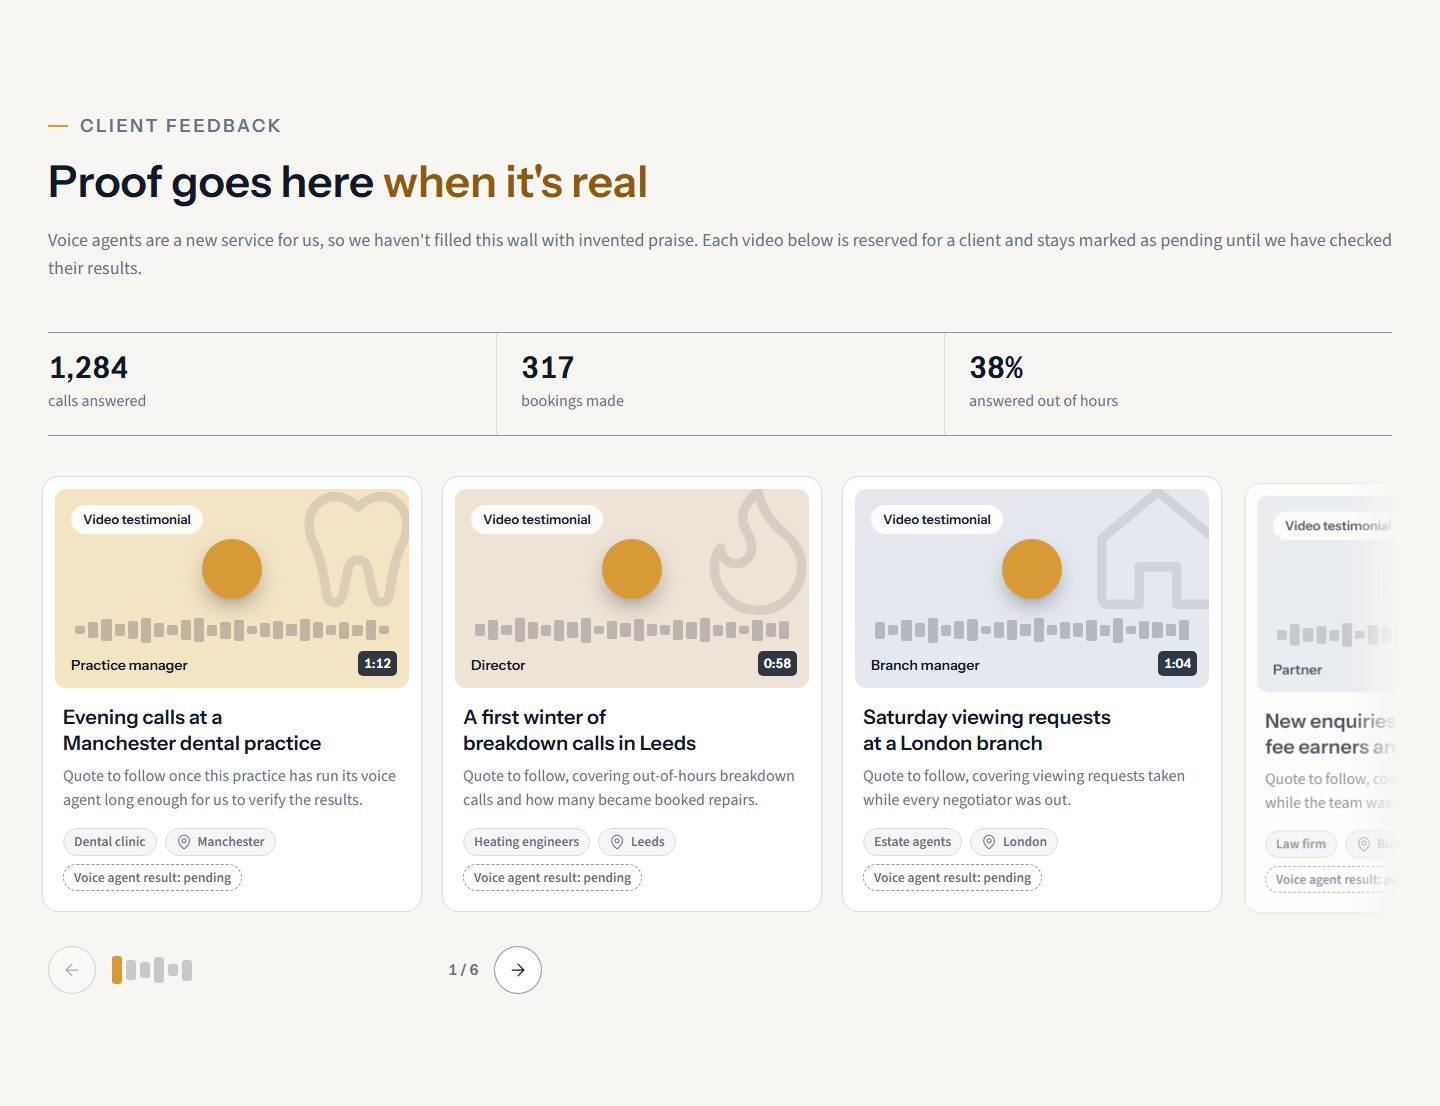
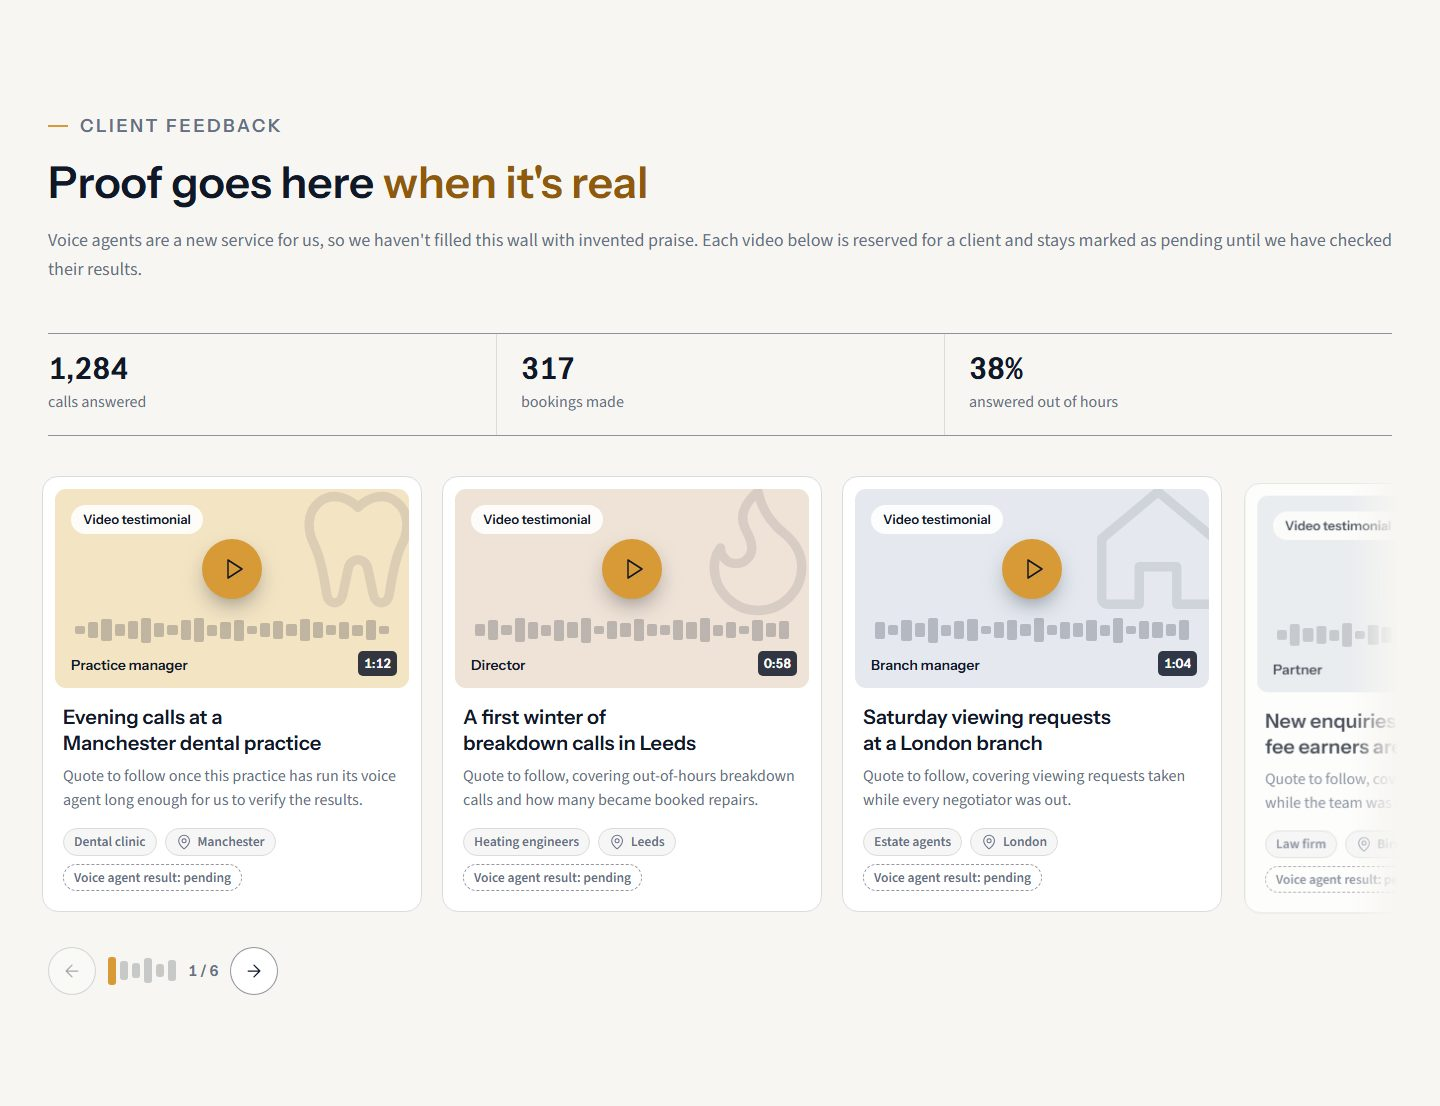
/ai-voice-agents: Industries back to a grid; feedback and cities carousels drag and autoplay
Compact control row (arrow, waveform, count, arrow). Mouse drag with snap on
release and a swallowed follow-up click. Autoplay every 4.5s while in view,
paused on hover, focus and for 8s after any interaction, off under reduced
motion. Button and wave colours now have fallbacks so they render inside the
v4 wrapper too.

diff --git a/lib/content/ai-voice-agents-legacy.ts b/lib/content/ai-voice-agents-legacy.ts
@@ -55,8 +55,7 @@ export const legacyMarkup = String.raw`
     </div>
     <p class="sr-only" aria-live="polite" data-industry-count></p>
 
-    <div class="va-car mt-8" data-carousel>
-    <div class="va-car-track" style="--car-w:560px" tabindex="0" aria-label="Industries, scroll sideways" data-industry-list>
+    <div class="mt-8 grid gap-5 lg:grid-cols-2" data-industry-list>
       <article class="grid items-start gap-4 rounded-[18px] border border-line bg-surface p-5 sm:grid-cols-[160px_minmax(0,1fr)] sm:gap-6" data-industry data-group="property">
         <span class="block h-[120px] w-full rounded-[12px] bg-paper p-2 sm:w-[160px]" aria-hidden="true"><svg viewBox="0 0 200 150" class="h-full w-full" aria-hidden="true">
     <ellipse cx="100" cy="132" rx="78" ry="14.04" class="il-shadow"/>
@@ -275,15 +274,7 @@ export const legacyMarkup = String.raw`
         </ul>
         </div>
       </article>
-    </div>
-    <div class="va-car-ui">
-      <button type="button" class="va-car-btn" data-car-prev aria-label="Previous industry"><svg class="icon" aria-hidden="true" focusable="false"><use href="#i-arrow-left"/></svg></button>
-      <div class="va-car-wave" aria-hidden="true" data-car-wave><i style="--h:40%"></i><i style="--h:70%"></i><i style="--h:55%"></i><i style="--h:90%"></i><i style="--h:45%"></i><i style="--h:75%"></i><i style="--h:60%"></i><i style="--h:85%"></i></div>
-      <span class="va-car-status" data-car-status aria-live="polite">1 / 8</span>
-      <button type="button" class="va-car-btn" data-car-next aria-label="Next industry"><svg class="icon" aria-hidden="true" focusable="false"><use href="#i-arrow-right"/></svg></button>
-    </div>
-    </div>
-            <aside class="on-band grid items-center gap-4 rounded-[18px] bg-band p-5 text-band-ink sm:grid-cols-[120px_minmax(0,1fr)] sm:gap-6 mt-8" aria-labelledby="industries-cta-title">
+            <aside class="on-band grid items-center gap-4 rounded-[18px] bg-band p-5 text-band-ink sm:grid-cols-[120px_minmax(0,1fr)] sm:gap-6 lg:col-span-2" aria-labelledby="industries-cta-title">
         <span class="grid size-[88px] place-items-center rounded-[12px] bg-white/5 sm:size-[120px]" aria-hidden="true"><span class="grid size-14 place-items-center rounded-[14px] sm:size-16 bg-gold text-navy"><svg class="icon !h-7 !w-7" aria-hidden="true" focusable="false"><use href="#i-phone"/></svg></span></span>
         <div class="min-w-0">
         <h3 id="industries-cta-title" class="!text-[21px]">Not sure how your calls would fit?</h3>
@@ -293,6 +284,7 @@ export const legacyMarkup = String.raw`
         </div>
         </div>
       </aside>
+    </div>
   </div>
 </section>
 
@@ -312,7 +304,7 @@ export const legacyMarkup = String.raw`
       <div class="border-t border-line py-5 sm:border-l sm:border-t-0 sm:pl-6"><dd class="font-display text-[30px] font-semibold leading-none tnum">38%</dd><dt class="mt-1.5 text-[16px] text-muted">answered out of hours</dt></div>
     </dl>
 
-    <div class="va-car mt-10" data-carousel>
+    <div class="va-car mt-10" data-carousel data-autoplay>
     <div class="va-car-track" style="--car-w:380px" tabindex="0" aria-label="Client feedback, scroll sideways">
       <figure class="flex flex-col rounded-[16px] border border-line bg-surface p-3 transition-colors hover:border-[var(--va-line-strong)]">
         <div class="relative aspect-video overflow-hidden rounded-[11px] bg-[var(--va-tint-1)]">

diff --git a/components/voice-agents/VoiceAgentsScript.tsx b/components/voice-agents/VoiceAgentsScript.tsx
@@ -1143,6 +1143,58 @@ function init(page: HTMLElement, navigate: (href: string) => void) {
       on(next, "click", () => go(1));
       on(track, "scroll", () => { if (!raf) raf = requestAnimationFrame(sync); }, { passive: true });
       on(window, "resize", sync);
+
+      // Drag with a mouse or pen (touch already scrolls natively). A real drag swallows the click that follows.
+      let dragX = 0, dragLeft = 0, dragging = false, moved = false;
+      on(track, "pointerdown", (e: PointerEvent) => {
+        if (e.pointerType === "touch" || e.button !== 0) return;
+        dragging = true; moved = false; dragX = e.clientX; dragLeft = track.scrollLeft;
+        track.setPointerCapture(e.pointerId);
+      });
+      on(track, "pointermove", (e: PointerEvent) => {
+        if (!dragging) return;
+        const dx = e.clientX - dragX;
+        if (!moved && Math.abs(dx) < 6) return;
+        moved = true;
+        track.classList.add("is-dragging");
+        track.scrollLeft = dragLeft - dx;
+      });
+      const endDrag = () => {
+        if (!dragging) return;
+        dragging = false;
+        if (!moved) return;
+        track.classList.remove("is-dragging");
+        track.scrollTo({ left: Math.round(track.scrollLeft / stepWidth()) * stepWidth(), behavior: reduceMotion.matches ? "auto" : "smooth" });
+      };
+      on(track, "pointerup", endDrag);
+      on(track, "pointercancel", endDrag);
+      on(track, "click", (e) => { if (moved) { e.preventDefault(); e.stopPropagation(); moved = false; } }, true);
+
+      // Autoplay: one card every few seconds while in view, paused on hover, focus or after any interaction.
+      if (root.hasAttribute("data-autoplay") && !reduceMotion.matches) {
+        let inView = false, hold = false, idle = 0, tick = 0;
+        const stop = () => { clearInterval(tick); tick = 0; };
+        const play = () => {
+          if (tick || !inView || hold) return;
+          tick = every(() => {
+            if (dragging) return;
+            const list = cards();
+            const i = Math.round(track.scrollLeft / stepWidth());
+            if (i >= list.length - 1 || track.scrollLeft + track.clientWidth >= track.scrollWidth - 2) track.scrollTo({ left: 0, behavior: "smooth" });
+            else go(1);
+          }, 4500);
+        };
+        const pause = (ms: number) => { hold = true; stop(); clearTimeout(idle); idle = later(() => { hold = false; play(); }, ms); };
+        on(root, "pointerenter", () => { hold = true; stop(); });
+        on(root, "pointerleave", () => { hold = false; play(); });
+        on(root, "focusin", () => { hold = true; stop(); });
+        on(root, "focusout", () => { hold = false; play(); });
+        on(root, "pointerdown", () => pause(8000));
+        on(root, "touchstart", () => pause(8000), { passive: true });
+        on(prev, "click", () => pause(8000));
+        on(next, "click", () => pause(8000));
+        observe((entries) => { inView = entries[0].isIntersecting; if (inView) play(); else stop(); }, { threshold: 0.4 }).observe(root);
+      }
       // The industry filter chips (outside the carousel) hide cards; re-sync after any click.
       on(page, "click", () => later(sync, 60));
       sync();

diff --git a/app/ai-voice-agents/voice-agents.css b/app/ai-voice-agents/voice-agents.css
@@ -500,20 +500,23 @@ html:has(.va-page dialog[open]) {
 #va-page .va-car-track:focus-visible { outline: 2px solid var(--va-hl); outline-offset: 4px; border-radius: 12px; }
 #va-page .va-car-track > * { flex: 0 0 min(100%, var(--car-w, 400px)); width: min(100%, var(--car-w, 400px)); scroll-snap-align: start; margin: 0; }
 #va-page .va-car-track > [hidden] { display: none; }
-#va-page .va-car-ui { display: flex; align-items: center; gap: 1rem; margin-top: 1rem; }
+#va-page .va-car-ui { display: flex; align-items: center; gap: .75rem; margin-top: 1rem; }
 #va-page .va-car-btn {
   display: grid; place-items: center; width: 48px; height: 48px; flex: none; border-radius: 999px;
-  border: 1.5px solid var(--va-line-strong); color: var(--va-ink); background: var(--va-surface);
+  border: 1.5px solid var(--va-line-strong, rgb(16 24 40 / .45)); color: var(--va-ink, #101828); background: var(--va-surface, #fff);
   transition: background-color .15s ease, border-color .15s ease, color .15s ease, opacity .15s ease;
 }
 #va-page .va-car-btn:hover:not(:disabled) { background: #d79a37; border-color: #d79a37; color: #101828; }
 #va-page .va-car-btn:disabled { opacity: .35; cursor: default; }
 #va-page .va-car-btn .icon { width: 1.25rem; height: 1.25rem; }
-#va-page .va-car-wave { display: flex; align-items: center; gap: 4px; height: 28px; flex: 1; min-width: 0; max-width: 320px; }
-#va-page .va-car-wave i { display: block; flex: 1; max-width: 10px; height: var(--h, 40%); border-radius: 3px; background: var(--va-line-strong); opacity: .45; transition: background-color .25s ease, opacity .25s ease, height .25s ease; }
+#va-page .va-car-wave { display: flex; align-items: center; gap: 4px; height: 28px; flex: none; }
+#va-page .va-car-wave i { display: block; width: 8px; height: var(--h, 40%); border-radius: 3px; background: var(--va-line-strong, rgb(16 24 40 / .45)); opacity: .45; transition: background-color .25s ease, opacity .25s ease, height .25s ease; }
 #va-page .va-car-wave i.is-on { background: #d79a37; opacity: 1; }
 #va-page .va-car-wave i.is-now { height: 100%; }
-#va-page .va-car-status { font-family: var(--font-display); font-size: 15px; font-weight: 600; font-variant-numeric: tabular-nums; color: var(--va-muted); white-space: nowrap; }
+#va-page .va-car-status { font-family: var(--font-display); font-size: 15px; font-weight: 600; font-variant-numeric: tabular-nums; color: var(--va-muted, #667085); white-space: nowrap; }
+#va-page .va-car-track { cursor: grab; }
+#va-page .va-car-track.is-dragging { cursor: grabbing; scroll-snap-type: none; scroll-behavior: auto; user-select: none; }
+#va-page .va-car-track.is-dragging > * { pointer-events: none; }
 #va-page .on-band .va-car-btn { border-color: var(--va-band-line); color: var(--va-band-ink); background: transparent; }
 #va-page .on-band .va-car-wave i { background: var(--va-band-line); }
 #va-page .on-band .va-car-status { color: var(--va-band-muted); }

diff --git a/lib/content/ai-voice-agents-landing-v4.ts b/lib/content/ai-voice-agents-landing-v4.ts
@@ -166,7 +166,7 @@ export const landingV4Markup = String.raw`
       <h2 class="h2 mt-3" id="city-title">Local to you. <span class="hl">Answering calls across the UK.</span></h2>
       <p class="lead mt-4">A local number, your opening hours and an agent that knows the areas you cover.</p>
     </div>
-    <div class="va-car mt-12" data-carousel>
+    <div class="va-car mt-12" data-carousel data-autoplay>
     <ul class="cities va-car-track" style="--car-w:360px" tabindex="0" aria-label="Local cover, scroll sideways">
       <li class="city" style="--tint:var(--tint-1)">
         <div class="city-top">

diff --git a/docs/ai-voice-agents-cro/ai-voice-agents-information-architecture.md b/docs/ai-voice-agents-cro/ai-voice-agents-information-architecture.md
@@ -117,3 +117,8 @@ was dropped. The "In plain English" eyebrow was removed.
 progress indicator and a running "n / total" count. No library: native scrolling, scroll-driven
 entrance animation where the browser supports it, static under reduced motion. Keyboard: the track
 is focusable and scrolls with the arrow keys; the buttons are ordinary buttons.
+
+**Revision:** Industries is a grid again (the client wants variety, not three carousels in a row).
+Client feedback and Local cover stay carousels, now draggable with a mouse and auto-advancing every
+4.5 seconds while in view; autoplay pauses on hover or focus and for eight seconds after any
+interaction, and is off under reduced motion. The control row is compact: arrow, waveform, count, arrow.
